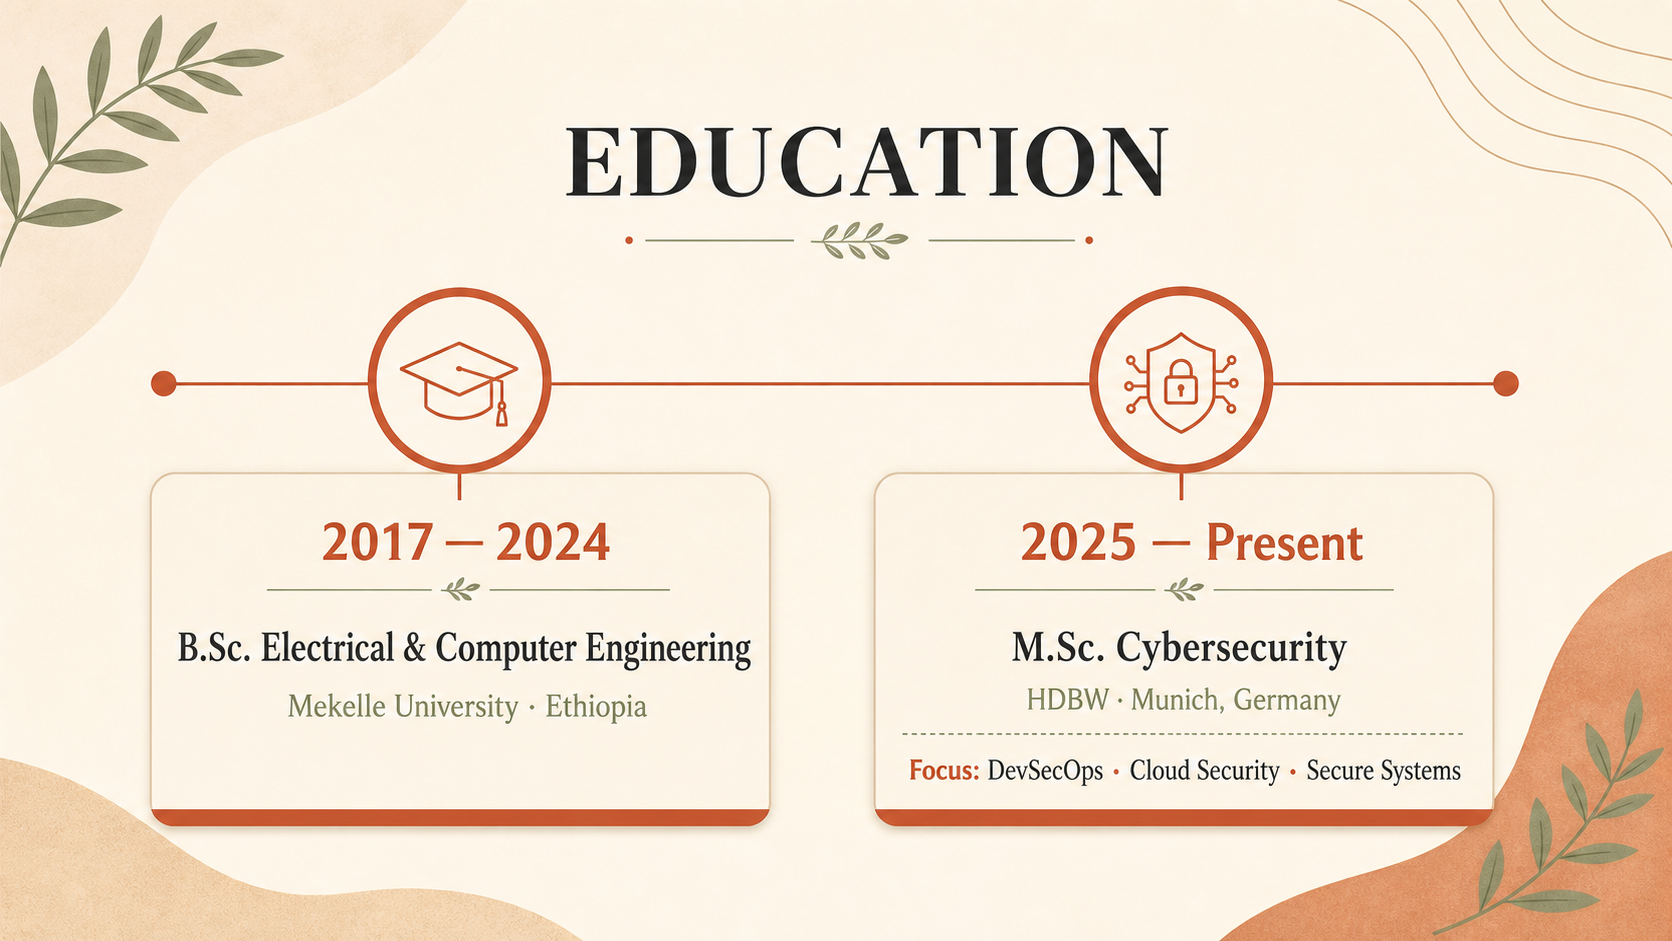
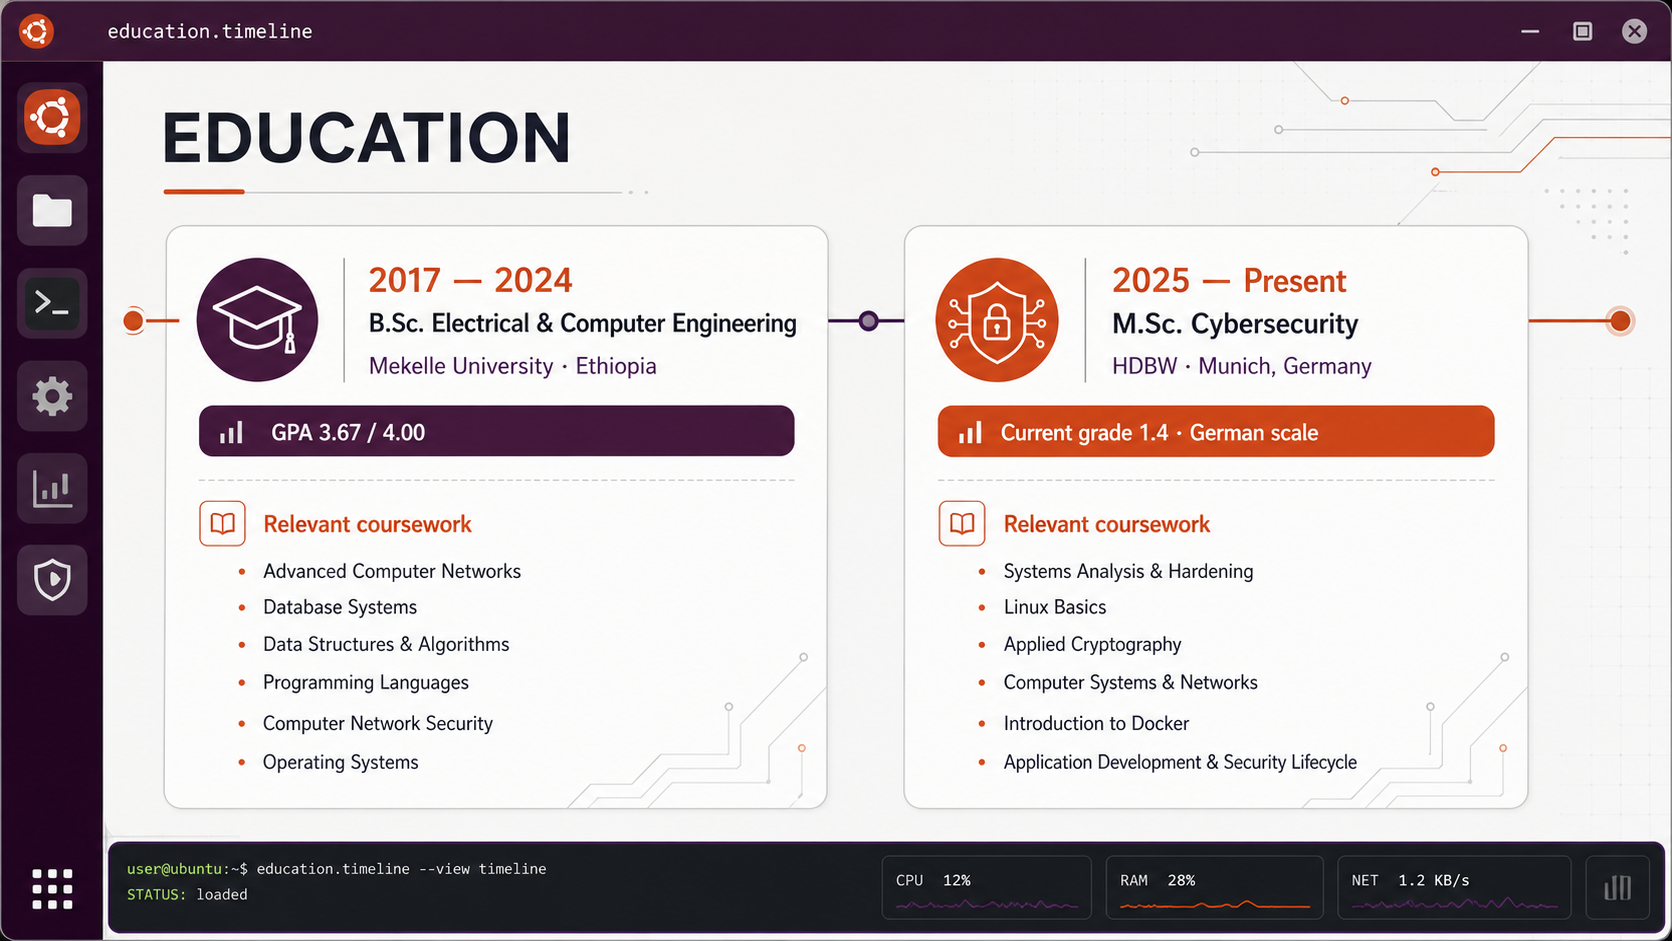
Redesign timelines for Ubuntu light and dark modes

diff --git a/src/data/portfolioFileSystem.js b/src/data/portfolioFileSystem.js
@@ -32,8 +32,9 @@ const jsonFile = (name, data, extras = {}) =>
  */
 const normalizeAssetPath = (src) => src ? `/${src.replace(/^\/+/, '')}` : null;
 
-const imageFile = (name, icon = 'image', src) => {
+const imageFile = (name, icon = 'image', src, extras = {}) => {
   const extension = name.split('.').pop()?.toLowerCase();
+  const { darkSrc, ...fileExtras } = extras;
   const typeLabels = {
     gif: 'GIF Image',
     jpeg: 'JPEG Image',
@@ -51,8 +52,10 @@ const imageFile = (name, icon = 'image', src) => {
     action: 'media',
     mediaType: extension === 'gif' ? 'gif' : 'image',
     src: normalizeAssetPath(src),
+    darkSrc: normalizeAssetPath(darkSrc),
     disabled: !src,
     statusMessage: !src ? `${name} has not been added to the portfolio yet.` : undefined,
+    ...fileExtras,
   };
 };
 
@@ -395,7 +398,9 @@ export const directoryContents = {
   ],
 
   experience: [
-    imageFile('Experience_Timeline.png', 'image', '/timelines/experience-timeline.png'),
+    imageFile('Experience_Timeline.png', 'image', '/timelines/experience-timeline.png', {
+      darkSrc: '/timelines/experience-timeline-dark.png',
+    }),
     textFile(
       'MK_Delivery.txt',
       `Founder and Developer — MK Delivery\n\nBuilt and operated a food-delivery application in Mekelle that reached more than 3,000 users/downloads. Worked across product development, restaurant onboarding and iteration based on practical feedback.\n\nOpen Projects/MK_Delivery for the full case study.`,
@@ -412,7 +417,9 @@ export const directoryContents = {
   ],
 
   education: [
-    imageFile('Education_Timeline.png', 'image', '/timelines/education-timeline.png'),
+    imageFile('Education_Timeline.png', 'image', '/timelines/education-timeline.png', {
+      darkSrc: '/timelines/education-timeline-dark.png',
+    }),
     jsonFile(
       'HDBW_MSc_Cybersecurity.json',
       {

diff --git a/src/components/DolphinWindow.jsx b/src/components/DolphinWindow.jsx
@@ -245,7 +245,8 @@ export default function DolphinWindow({
     } else if (item.action === 'text') {
       if (onTextEditorOpen) onTextEditorOpen(item.name, item.content || '');
     } else if (item.action === 'media') {
-      if (onMediaOpen) onMediaOpen(item.name, item.src, item.mediaType);
+      const themedSrc = !isLightMode && item.darkSrc ? item.darkSrc : item.src;
+      if (onMediaOpen) onMediaOpen(item.name, themedSrc, item.mediaType);
     } else if (item.action === 'browser' && item.url) {
       if (onBrowserOpen) {
         onBrowserOpen(item.url);
